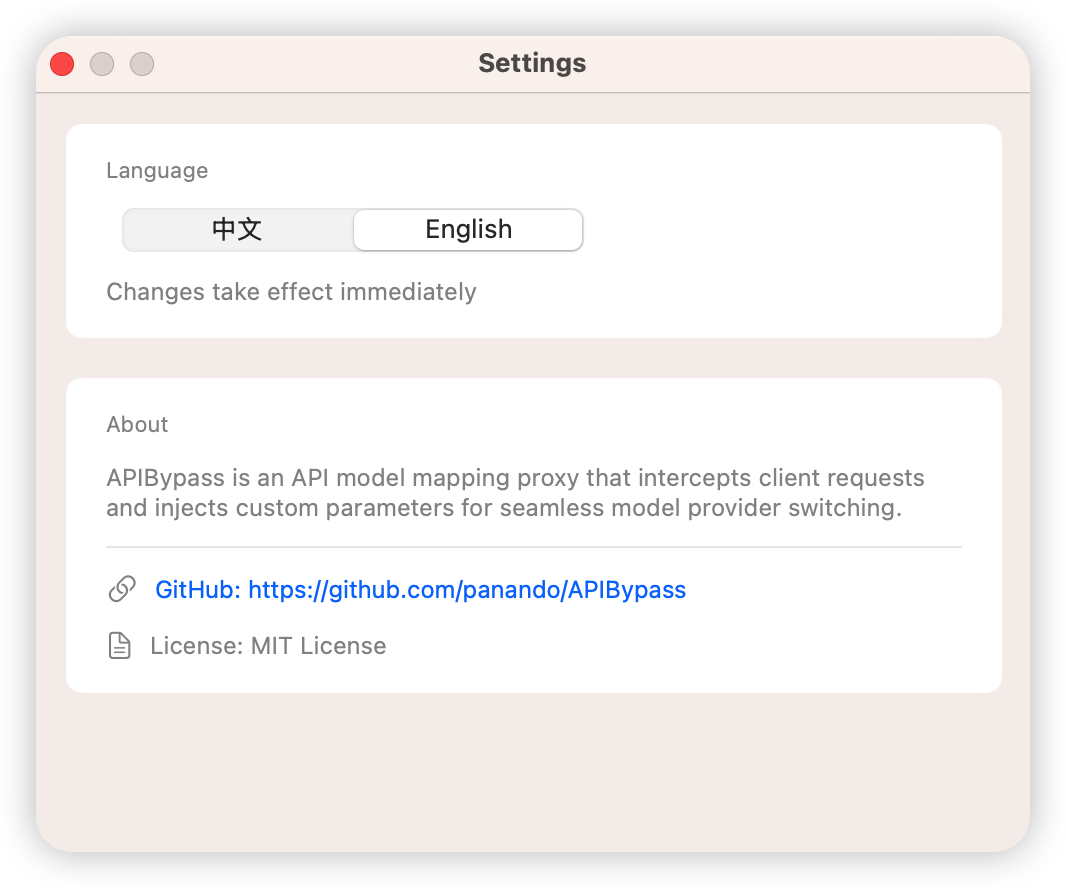
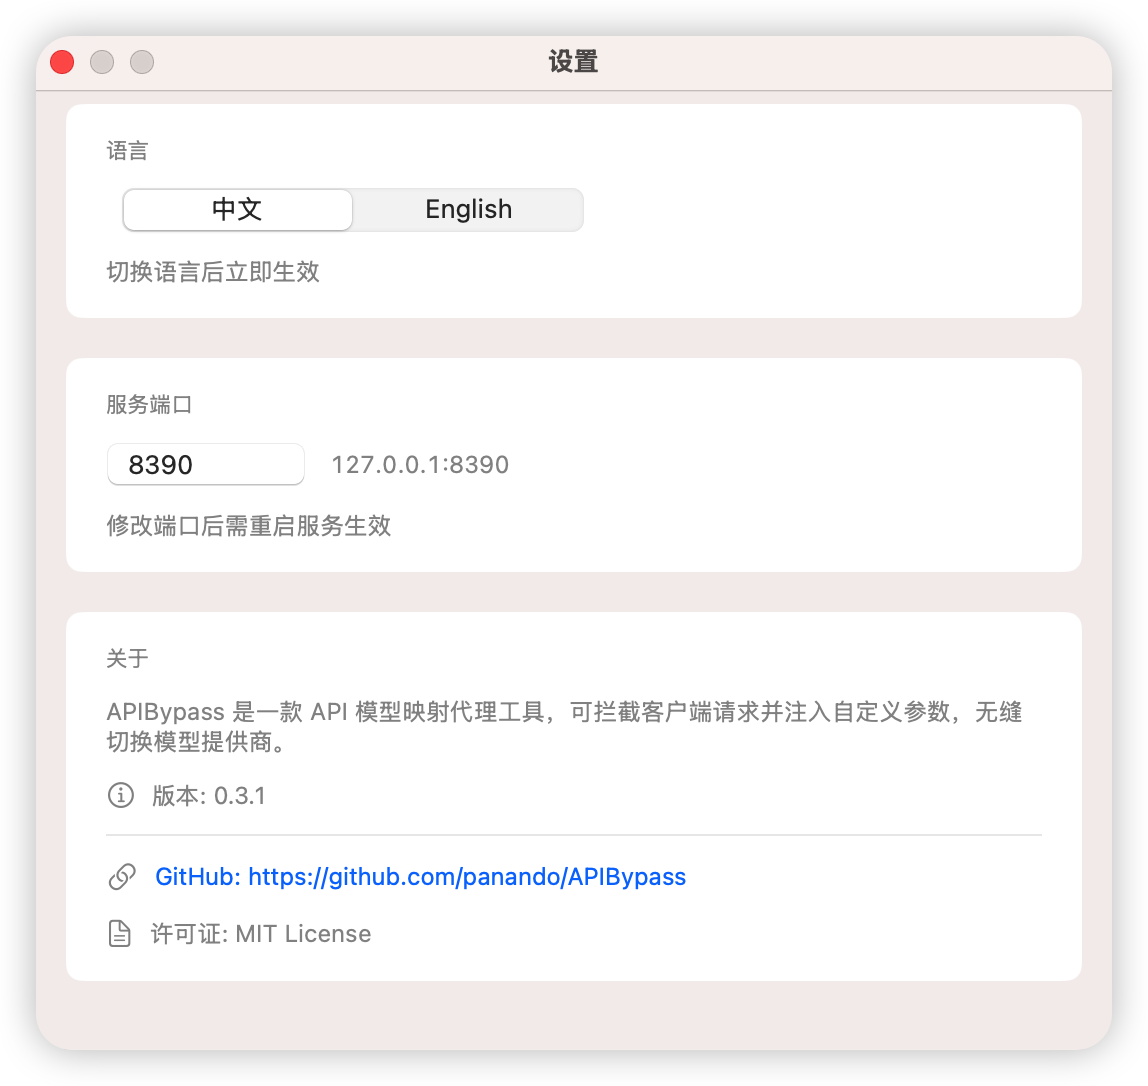
feat: custom service port, localize port text, add version to About
- 端口可从设置面板配置，存储在 UserDefaults，重启服务生效
- 菜单栏和设置面板的端口文字完成中英文本地化
- 关于部分显示版本号 0.3.1
- 修复端口数值显示千分位逗号问题
- 设置窗口增大尺寸并使用自适应布局

diff --git a/APIBypass/UI/SettingsView.swift b/APIBypass/UI/SettingsView.swift
@@ -2,6 +2,14 @@ import SwiftUI
 
 struct SettingsView: View {
     @ObservedObject var l10n = LocalizationManager.shared
+    @AppStorage("serverPort") private var serverPort: Int = 8390
+
+    private var portString: Binding<String> {
+        Binding<String>(
+            get: { String(serverPort) },
+            set: { if let v = Int($0) { serverPort = v } }
+        )
+    }
 
     var body: some View {
         VStack(spacing: 20) {
@@ -29,6 +37,31 @@ struct SettingsView: View {
             .background(Color(NSColor.controlBackgroundColor))
             .cornerRadius(8)
 
+            // 服务端口
+            VStack(alignment: .leading, spacing: 12) {
+                Text(L10n.t("server_port"))
+                    .font(.subheadline)
+                    .foregroundColor(.secondary)
+
+                HStack(spacing: 12) {
+                    TextField("", text: portString)
+                        .textFieldStyle(.roundedBorder)
+                        .frame(width: 100)
+                    Text("127.0.0.1:\(String(serverPort))")
+                        .font(.callout.monospacedDigit())
+                        .foregroundColor(.secondary)
+                }
+
+                Text(L10n.t("port_hint"))
+                    .font(.callout)
+                    .foregroundColor(.secondary)
+                    .frame(maxWidth: .infinity, alignment: .leading)
+            }
+            .padding(.horizontal, 20)
+            .padding(.vertical, 16)
+            .background(Color(NSColor.controlBackgroundColor))
+            .cornerRadius(8)
+
             // 关于
             VStack(alignment: .leading, spacing: 12) {
                 Text(L10n.t("about"))
@@ -39,6 +72,14 @@ struct SettingsView: View {
                     .font(.callout)
                     .foregroundColor(.secondary)
                     .fixedSize(horizontal: false, vertical: true)
+
+                HStack(spacing: 8) {
+                    Image(systemName: "info.circle")
+                        .foregroundColor(.secondary)
+                    Text("\(L10n.t("version")): 0.3.1")
+                        .font(.callout)
+                        .foregroundColor(.secondary)
+                }
 
                 Divider()
 
@@ -72,7 +113,6 @@ struct SettingsView: View {
             Spacer()
         }
         .padding()
-        .frame(minWidth: 460, minHeight: 300)
-        .frame(width: 500)
+        .frame(minWidth: 460, idealWidth: 500, minHeight: 300)
     }
 }

diff --git a/APIBypass/UI/MenuBarView.swift b/APIBypass/UI/MenuBarView.swift
@@ -3,6 +3,7 @@ import SwiftUI
 struct MenuBarView: View {
     let configManager: ConfigManager
     @Binding var isRunning: Bool
+    let port: Int
     let onStart: () -> Void
     let onStop: () -> Void
 
@@ -18,7 +19,7 @@ struct MenuBarView: View {
             }
 
             if isRunning {
-                Text("端口: 8390")
+                Text("\(L10n.t("port")): \(String(port))")
                     .font(.caption)
                     .foregroundColor(.secondary)
             }
@@ -80,8 +81,11 @@ struct MenuBarView: View {
             return
         }
 
+        let hostingView = NSHostingView(rootView: SettingsView())
+        hostingView.sizingOptions = [.minSize, .intrinsicContentSize]
+
         let window = NSWindow(
-            contentRect: NSRect(x: 0, y: 0, width: 520, height: 380),
+            contentRect: NSRect(x: 0, y: 0, width: 540, height: 480),
             styleMask: [.titled, .closable],
             backing: .buffered,
             defer: false
@@ -89,7 +93,7 @@ struct MenuBarView: View {
         window.title = L10n.t("settings_title")
         window.identifier = NSUserInterfaceItemIdentifier("settings-window")
         window.isReleasedWhenClosed = false
-        window.contentView = NSHostingView(rootView: SettingsView())
+        window.contentView = hostingView
         window.center()
         window.makeKeyAndOrderFront(nil)
         window.becomeKey()

diff --git a/APIBypass/Core/LocalizationManager.swift b/APIBypass/Core/LocalizationManager.swift
@@ -48,11 +48,15 @@ struct L10n {
         "configure": [.chinese: "配置...", .english: "Configure..."],
         "settings": [.chinese: "设置...", .english: "Settings..."],
         "quit": [.chinese: "退出", .english: "Quit"],
+        "port": [.chinese: "端口", .english: "Port"],
+        "version": [.chinese: "版本", .english: "Version"],
 
         // 设置面板
         "settings_title": [.chinese: "设置", .english: "Settings"],
         "language": [.chinese: "语言", .english: "Language"],
         "language_hint": [.chinese: "切换语言后立即生效", .english: "Changes take effect immediately"],
+        "server_port": [.chinese: "服务端口", .english: "Server Port"],
+        "port_hint": [.chinese: "修改端口后需重启服务生效", .english: "Restart the server to apply port changes"],
         "about": [.chinese: "关于", .english: "About"],
         "about_description": [.chinese: "APIBypass 是一款 API 模型映射代理工具，可拦截客户端请求并注入自定义参数，无缝切换模型提供商。", .english: "APIBypass is an API model mapping proxy that intercepts client requests and injects custom parameters for seamless model provider switching."],
         "license": [.chinese: "许可证: MIT License", .english: "License: MIT License"],

diff --git a/APIBypass/Core/HTTPServer.swift b/APIBypass/Core/HTTPServer.swift
@@ -13,13 +13,20 @@ final class HTTPServer: ObservableObject {
     private var app: Application<RouterResponder<BasicRequestContext>>?
     private var serviceGroup: ServiceGroup?
 
-    let port: Int = 8390
+    let port: Int
+
+    static var storedPort: Int {
+        get { UserDefaults.standard.integer(forKey: "serverPort") }
+        set { UserDefaults.standard.set(newValue, forKey: "serverPort") }
+    }
 
     init(configManager: ConfigManager, keychain: KeychainService = .shared) {
         self.configManager = configManager
         self.keychain = keychain
         self.proxyEngine = ProxyEngine()
         self.networkService = NetworkService()
+        let saved = UserDefaults.standard.integer(forKey: "serverPort")
+        self.port = saved > 0 ? saved : 8390
     }
 
     func start() async throws {

diff --git a/APIBypass/APIBypassApp.swift b/APIBypass/APIBypassApp.swift
@@ -41,6 +41,7 @@ struct APIBypassApp: App {
             MenuBarView(
                 configManager: configManager,
                 isRunning: $isRunning,
+                port: server?.port ?? (UserDefaults.standard.integer(forKey: "serverPort") > 0 ? UserDefaults.standard.integer(forKey: "serverPort") : 8390),
                 onStart: startServer,
                 onStop: stopServer
             )
